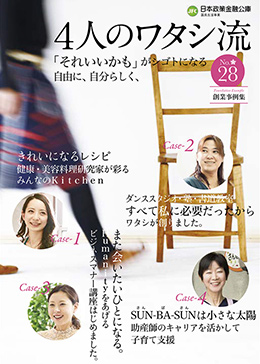
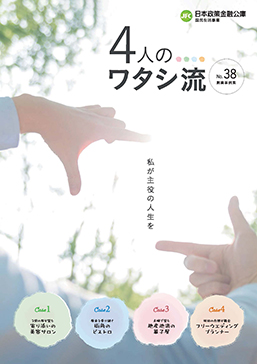
【START】PDF差し替え

diff --git a/start/n/finance/sougyou/inc/header.html b/start/n/finance/sougyou/inc/header.html
@@ -1,12 +1,12 @@
 	<div id="wrapper">
 		<header id="header-sougyou">
 			<div class="container-sougyou">
-				<div class="logo01"><a href="/"><img src="/n/finance/sougyou/img/logo.png" alt="JFC 日本政策金融公庫"></a></div>
+				<div class="logo01"><a href="/"><img src=".././img/logo.png" alt="JFC 日本政策金融公庫"></a></div>
 				<div class="logo02">
-					<a href="/n/finance/sougyou/"><img src="/n/finance/sougyou/img/header_logo.png" alt="Start"></a>
+					<a href=".././"><img src=".././img/header_logo.png" alt="Start"></a>
 					<div class="header-txt">
-						<img src="/n/finance/sougyou/img/header_txt.png" alt="日本公庫はあなたの創業を応援します" class="txt-pc" width="410" height="31">
-						<img src="/n/finance/sougyou/img/header_txt_sp.png" alt="日本公庫はあなたの創業を応援します" class="txt-sp">
+						<img src=".././img/header_txt.png" alt="日本公庫はあなたの創業を応援します" class="txt-pc" width="410" height="31">
+						<img src=".././img/header_txt_sp.png" alt="日本公庫はあなたの創業を応援します" class="txt-sp">
 					</div>
 				</div>
 				<button id="header-menu"><span class="off">Menu</span><span class="on">閉じる</span></button>
@@ -15,53 +15,53 @@
 					<div class="header-menu-inner">
 						<div class="header-menu-top">
 							<div class="header-menu-box item01">
-								<h2 class="header-menu-ttl"><img src="/n/finance/sougyou/img/top/menu_txt01.png" alt="創業を知る" width="192"></h2>
+								<h2 class="header-menu-ttl"><img src=".././img/top/menu_txt01.png" alt="創業を知る" width="192"></h2>
 								<ul class="header-menu-link">
-									<li><a href="/n/finance/sougyou/entrepreneur-magazine/">起業家応援マガジン</a></li>
-									<li><a href="/n/finance/sougyou/startup-guide/">創業を志す方への参考情報</a></li>
-									<li><a href="/n/finance/sougyou/case/">story-全国創業事例集-</a></li>
+									<li><a href=".././entrepreneur-magazine/">起業家応援マガジン</a></li>
+									<li><a href=".././startup-guide/">創業を志す方への参考情報</a></li>
+									<li><a href=".././case/">story-全国創業事例集-</a></li>
 									<li><a href="https://www.m.jfc.go.jp/syspeg/peg010" target="_blank">資料請求</a></li>
 								</ul>
 							</div>
 							<div class="header-menu-box item02">
-								<div class="header-menu-ttl"><img src="/n/finance/sougyou/img/top/menu_txt02.png" alt="計画を立てる" width="192"></div>
+								<div class="header-menu-ttl"><img src=".././img/top/menu_txt02.png" alt="計画を立てる" width="192"></div>
 								<ul class="header-menu-link">
-									<li><a href="/n/finance/sougyou/business-plan/">創業計画の書き方</a></li>
-									<li><a href="/n/finance/sougyou/pdf/sougyou_tebiki202506.pdf">創業の手引（PDF）</a></li>
-									<li><a href="/n/finance/sougyou/sougyou-point/">業種別の創業ポイント集</a></li>
+									<li><a href=".././business-plan/">創業計画の書き方</a></li>
+									<li><a href=".././pdf/sougyou_tebiki202506.pdf">創業の手引（PDF）</a></li>
+									<li><a href=".././sougyou-point/">業種別の創業ポイント集</a></li>
 								</ul>
 							</div>
 							<div class="header-menu-box item03">
-								<h2 class="header-menu-ttl"><img src="/n/finance/sougyou/img/top/menu_txt03.png" alt="計画をみがく" width="192"></h2>
+								<h2 class="header-menu-ttl"><img src=".././img/top/menu_txt03.png" alt="計画をみがく" width="192"></h2>
 								<ul class="header-menu-link">
-									<li><a href="/n/finance/sougyou/consultation/">来店／オンライン相談</a></li>
-									<li><a href="/n/finance/sougyou/sougyou04.html">各地の創業情報</a></li>
+									<li><a href=".././consultation/">来店／オンライン相談</a></li>
+									<li><a href=".././sougyou04.html">各地の創業情報</a></li>
 								</ul>
 							</div>
 							<div class="header-menu-box item04">
-								<h2 class="header-menu-ttl"><img src="/n/finance/sougyou/img/top/menu_txt04.png" alt="資金を調達する" width="192"></h2>
+								<h2 class="header-menu-ttl"><img src=".././img/top/menu_txt04.png" alt="資金を調達する" width="192"></h2>
 								<ul class="header-menu-link">
 									<li><a href="/n/finance/search/sogyoyushi.html">融資制度</a></li>
 									<li><a href="/n/finance/flow/tetsudukij_c.html">お申込からご融資の流れ</a></li>
 									<li><a href="/n/service/apply.html">インターネット申込</a></li>
-									<li><a href="/n/finance/sougyou/faq/">Ｑ＆Ａ</a></li>
+									<li><a href=".././faq/">Ｑ＆Ａ</a></li>
 								</ul>
 							</div>
 						</div>
 						<div class="header-menu-bottom">
 							<ul class="list01">
-								<li class="btn01"><a href="/n/finance/sougyou/about/">動画で見る日本公庫の創業支援</a></li>
-								<li class="btn02 btn02-01"><a href="/n/finance/sougyou/#block-support">相談の窓口を探す</a></li>
-								<li class="btn02 btn02-02"><a href="/n/finance/sougyou/#block-coop">連携の窓口を探す</a></li>
+								<li class="btn01"><a href=".././about/">動画で見る日本公庫の創業支援</a></li>
+								<li class="btn02 btn02-01"><a href=".././#block-support">相談の窓口を探す</a></li>
+								<li class="btn02 btn02-02"><a href=".././#block-coop">連携の窓口を探す</a></li>
 							</ul>
 							<ul class="list02">
-								<li class="btn03"><a href="/n/finance/sougyou/syspeg/">オンライン相談</a></li>
+								<li class="btn03"><a href=".././syspeg/">オンライン相談</a></li>
 								<li class="btn03"><a href="/n/service/heijitsu_soudan.html">来店して相談</a></li>
 								<li class="btn04"><a href="https://direct.jfc.go.jp/w110_SeminarList" target="_blank">セミナー情報</a></li>
-								<li class="btn04"><a href="/n/finance/sougyou/column/">創業コラム</a></li>
+								<li class="btn04"><a href=".././column/">創業コラム</a></li>
 							</ul>
 							<div class="header-menu-logo">
-								<p><a href="/"><img src="/n/finance/sougyou/img/logo.png" alt="JFC 日本政策金融公庫" width="223" height="42"><span>ホームページへ</span></a></p>
+								<p><a href="/"><img src=".././img/logo.png" alt="JFC 日本政策金融公庫" width="223" height="42"><span>ホームページへ</span></a></p>
 							</div>
 						</div>
 					</div>
@@ -72,25 +72,25 @@
 						<div class="header-menu-box item01">
 							<button type="button">創業を 知る</button>
 							<ul class="header-menu-link">
-								<li><a href="/n/finance/sougyou/entrepreneur-magazine/">起業家応援マガジン</a></li>
-								<li><a href="/n/finance/sougyou/startup-guide/">創業を志す方への参考情報</a></li>
-								<li><a href="/n/finance/sougyou/case/">story-全国創業事例集-</a></li>
+								<li><a href=".././entrepreneur-magazine/">起業家応援マガジン</a></li>
+								<li><a href=".././startup-guide/">創業を志す方への参考情報</a></li>
+								<li><a href=".././case/">story-全国創業事例集-</a></li>
 								<li><a href="https://www.m.jfc.go.jp/syspeg/peg010" target="_blank">資料請求</a></li>
 							</ul>
 						</div>
 						<div class="header-menu-box item02">
 							<button type="button">計画を 立てる</button>
 							<ul class="header-menu-link">
-								<li><a href="/n/finance/sougyou/business-plan/">創業計画の書き方</a></li>
+								<li><a href=".././business-plan/">創業計画の書き方</a></li>
 								<li>創業の手引（PDF）</a></li>
-								<li><a href="/n/finance/sougyou/sougyou-point/">業種別の創業ポイント集</a></li>
+								<li><a href=".././sougyou-point/">業種別の創業ポイント集</a></li>
 							</ul>
 						</div>
 						<div class="header-menu-box item03">
 							<button type="button">計画を みがく</button>
 							<ul class="header-menu-link">
-								<li><a href="/n/finance/sougyou/consultation/">来店／オンライン相談</a></li>
-								<li><a href="/n/finance/sougyou/sougyou04.html">各地の創業情報</a></li>
+								<li><a href=".././consultation/">来店／オンライン相談</a></li>
+								<li><a href=".././sougyou04.html">各地の創業情報</a></li>
 							</ul>
 						</div>
 						<div class="header-menu-box item04">
@@ -99,16 +99,16 @@
 								<li><a href="/n/finance/search/sogyoyushi.html">融資制度</a></li>
 								<li><a href="/n/finance/flow/tetsudukij_c.html">お申込からご融資の流れ</a></li>
 								<li><a href="/n/service/apply.html">インターネット申込</a></li>
-								<li><a href="/n/finance/sougyou/faq/">Q&amp;A</a></li>
+								<li><a href=".././faq/">Q&amp;A</a></li>
 							</ul>
 						</div>
 						<div class="header-menu-box item05">
-							<a href="/n/finance/sougyou/about/">動画で見る日本公庫の創業支援</a>
+							<a href=".././about/">動画で見る日本公庫の創業支援</a>
 						</div>
 						<div class="header-menu-box item06">
 							<button type="button">相談する</button>
 							<ul class="header-menu-link">
-								<li><a href="/n/finance/sougyou/syspeg/">オンライン相談</a></li>
+								<li><a href=".././syspeg/">オンライン相談</a></li>
 								<li><a href="/n/service/heijitsu_soudan.html">来店して相談</a></li>
 							</ul>
 						</div>
@@ -116,17 +116,17 @@
 							<button type="button">情報を探す</button>
 							<ul class="header-menu-link">
 								<li><a href="https://direct.jfc.go.jp/w110_SeminarList" target="_blank">セミナー情報</a></li>
-								<li><a href="/n/finance/sougyou/column/">創業コラム</a></li>
+								<li><a href=".././column/">創業コラム</a></li>
 							</ul>
 						</div>
 						<div class="header-menu-box item08">
-							<a href="/n/finance/sougyou/#block-support">相談の窓口を探す</a>
+							<a href=".././#block-support">相談の窓口を探す</a>
 						</div>
 						<div class="header-menu-box item09">
-							<a href="/n/finance/sougyou/#block-coop">連携の窓口を探す</a>
+							<a href=".././#block-coop">連携の窓口を探す</a>
 						</div>
 						<div class="header-menu-bottom">
-							<p><a href="/"><img src="/n/finance/sougyou/img/logo.png" alt="JFC 日本政策金融公庫" width="223" height="42"><span>ホームページへ</span></a></p>
+							<p><a href="/"><img src=".././img/logo.png" alt="JFC 日本政策金融公庫" width="223" height="42"><span>ホームページへ</span></a></p>
 						</div>
 					</div>
 				</nav>

diff --git a/start/n/finance/sougyou/startup-guide/index 2.html b/start/n/finance/sougyou/startup-guide/index 2.html
@@ -10,17 +10,17 @@
 	<meta property="og:type" content="website">
 	<meta property="og:title" content="創業を志す方への参考情報 │ START 政策金融公庫の創業支援">
 	<meta property="og:description" content="">
-	<meta property="og:url" content="https://www.jfc.go.jp.././sample/">
+	<meta property="og:url" content="https://www.jfc.go.jp/n/finance/sougyou/sample/">
 	<meta property="og:site_name" content="あなたの創業は、どこから？ │ START 政策金融公庫の創業支援">
 	<meta property="og:image" content="/img/ogimage.png">
 
 	<!-- 固有js ここから -->
-	<script src=".././js/lib.js"></script>
-	<script src=".././js/script.js"></script>
+	<script src="/n/finance/sougyou/js/lib.js"></script>
+	<script src="/n/finance/sougyou/js/script.js"></script>
 	<!-- 固有js ここまで -->
     <!-- 固有css ここから -->
-	<link href=".././css/style.css" rel="stylesheet" type="text/css" />
-	<link href=".././css/contents.css" rel="stylesheet" type="text/css" />
+	<link href="/n/finance/sougyou/css/style.css" rel="stylesheet" type="text/css" />
+	<link href="/n/finance/sougyou/css/contents.css" rel="stylesheet" type="text/css" />
 	<!-- 固有css ここまで -->
 
     <!-- Google Tag Manager -->
@@ -48,7 +48,7 @@
 			<div class="common-box01">
 				<nav class="common-breadcrumb">
 					<ul>
-						<li><a href=".././">ホーム</a></li>
+						<li><a href="/n/finance/sougyou/">ホーム</a></li>
 						<li>創業を志す方への参考情報</li>
 					</ul>
 				</nav>
@@ -58,71 +58,71 @@
 					<ul class="common-itemlist01 col-2">
 						<li>
 							<div class="inner">
-								<figure><img src=".././img/startup-guide/item01.png" alt="創業の手引" width="130" height="182"></figure>
+								<figure><img src="/n/finance/sougyou/img/startup-guide/item01.png" alt="創業の手引" width="130" height="182"></figure>
 								<div class="txt">
 									<h2>創業の手引</h2>
 									<p>「経営者になる準備」や「ビジネスプランの立て方」等、創業に必要な知識を網羅的に説明しています。</p>
-									<div class="btnarea"><a href=".././pdf/sougyou_tebiki202506.pdf" target="_blank" class="common-btn01">ダウンロード</a><span class="size">(6.6MB)</span></div>
+									<div class="btnarea"><a href="/n/finance/sougyou/pdf/sougyou_tebiki202506.pdf" target="_blank" class="common-btn01">ダウンロード</a><span class="size">(6.6MB)</span></div>
 								</div>
 							</div>
 						</li>
 						<li>
 							<div class="inner">
-								<figure><img src=".././img/startup-guide/item02.jpg" alt="創業の手引＋（美容）" width="130" height="182"></figure>
+								<figure><img src="/n/finance/sougyou/img/startup-guide/item02.jpg" alt="創業の手引＋（美容）" width="130" height="182"></figure>
 								<div class="txt">
 									<h2>創業の手引＋（美容）</h2>
 									<p>美容業を創業される方向けに「創業計画策定」や「創業準備」のポイント等を説明しています。</p>
-									<div class="btnarea"><a href=".././pdf/sougyou_tebiki_biyou2406.pdf" target="_blank" class="common-btn01">ダウンロード</a><span class="size">(3.3MB)</span></div>
+									<div class="btnarea"><a href="/n/finance/sougyou/pdf/sougyou_tebiki_biyou2406.pdf" target="_blank" class="common-btn01">ダウンロード</a><span class="size">(3.3MB)</span></div>
 								</div>
 							</div>
 						</li>
 						<li>
 							<div class="inner">
-								<figure><img src=".././img/startup-guide/item03.jpg" alt="創業の手引＋（飲食）" width="130" height="182"></figure>
+								<figure><img src="/n/finance/sougyou/img/startup-guide/item03.jpg" alt="創業の手引＋（飲食）" width="130" height="182"></figure>
 								<div class="txt">
 									<h2>創業の手引＋（飲食）</h2>
 									<p>飲食業を創業される方向けに「創業計画策定」や「創業準備」のポイント等を説明しています。</p>
-									<div class="btnarea"><a href=".././pdf/sougyou_tebiki_insyoku2406.pdf" target="_blank" class="common-btn01">ダウンロード</a><span class="size">(3.7MB)</span></div>
+									<div class="btnarea"><a href="/n/finance/sougyou/pdf/sougyou_tebiki_insyoku2406.pdf" target="_blank" class="common-btn01">ダウンロード</a><span class="size">(3.7MB)</span></div>
 								</div>
 							</div>
 						</li>
 						<li>
 							<div class="inner">
-								<figure><img src=".././img/startup-guide/item04.jpg" alt="創業事例集　４人のワタシ流" width="130" height="182"></figure>
+								<figure><img src="/n/finance/sougyou/img/startup-guide/item04.jpg" alt="創業事例集　４人のワタシ流" width="130" height="182"></figure>
 								<div class="txt">
 									<h2>創業事例集　４人のワタシ流</h2>
 									<p>様々なライフイベントとの両立を図り、創業にチャレンジする方たちを紹介しています。</p>
-									<div class="btnarea"><a href=".././pdf/sougyou38_080108.pdf" target="_blank" class="common-btn01">ダウンロード</a><span class="size">(2.5MB)</span></div>
+									<div class="btnarea"><a href="/n/finance/sougyou/pdf/sougyou28_230105.pdf" target="_blank" class="common-btn01">ダウンロード</a><span class="size">(2.5MB)</span></div>
 								</div>
 							</div>
 						</li>
 						<li>
 							<div class="inner">
-								<figure><img src=".././img/startup-guide/item05.jpg" alt="創業事例集　私たちのTurnStory" width="130" height="182"></figure>
+								<figure><img src="/n/finance/sougyou/img/startup-guide/item05.jpg" alt="創業事例集　私たちのTurnStory" width="130" height="182"></figure>
 								<div class="txt">
 									<h2>創業事例集　私たちのTurnStory</h2>
 									<p>UIJターンにより移住した先で創業し、故郷等の活性化に貢献する方たちを紹介しています。</p>
-									<div class="btnarea"><a href=".././pdf/sougyou29_161213.pdf" target="_blank" class="common-btn01">ダウンロード</a><span class="size">(2.9MB)</span></div>
+									<div class="btnarea"><a href="/n/finance/sougyou/pdf/sougyou29_161213.pdf" target="_blank" class="common-btn01">ダウンロード</a><span class="size">(2.9MB)</span></div>
 								</div>
 							</div>
 						</li>
 						<li>
 							<div class="inner">
-								<figure><img src=".././img/startup-guide/item06.jpg" alt="創業事例集　Step by Step" width="130" height="182"></figure>
+								<figure><img src="/n/finance/sougyou/img/startup-guide/item06.jpg" alt="創業事例集　Step by Step" width="130" height="182"></figure>
 								<div class="txt">
 									<h2>創業事例集　Step by Step</h2>
 									<p>先輩創業者の「創業後に苦労した点やその乗り越え方」等を紹介しています。</p>
-									<div class="btnarea"><a href=".././pdf/sougyou36_202312.pdf" target="_blank" class="common-btn01">ダウンロード</a><span class="size">(7.8MB)</span></div>
+									<div class="btnarea"><a href="/n/finance/sougyou/pdf/sougyou36_202312.pdf" target="_blank" class="common-btn01">ダウンロード</a><span class="size">(7.8MB)</span></div>
 								</div>
 							</div>
 						</li>
 						<li>
 							<div class="inner">
-								<figure><img src=".././img/startup-guide/item07.jpg" alt="創業事例集　地域おこし×自分おこし" width="130" height="182"></figure>
+								<figure><img src="/n/finance/sougyou/img/startup-guide/item07.jpg" alt="創業事例集　地域おこし×自分おこし" width="130" height="182"></figure>
 								<div class="txt">
 									<h2>創業事例集　地域おこし×自分おこし</h2>
 									<p>地域おこし協力隊を経て創業し、地方で新しい人生を歩む方たちを紹介しています。</p>
-									<div class="btnarea"><a href=".././pdf/sougyou37_202312.pdf" target="_blank" class="common-btn01">ダウンロード</a><span class="size">(9.9MB)</span></div>
+									<div class="btnarea"><a href="/n/finance/sougyou/pdf/sougyou37_202312.pdf" target="_blank" class="common-btn01">ダウンロード</a><span class="size">(9.9MB)</span></div>
 								</div>
 							</div>
 						</li>
@@ -149,7 +149,7 @@
 	<script src="/n/common/js/ga.js"></script> 
 
 	<!-- 固有js ここから -->
-	<script src=".././js/top.js"></script>
+	<script src="/n/finance/sougyou/js/top.js"></script>
 	<!-- 固有js ここまで -->
 </body>
 </html>
